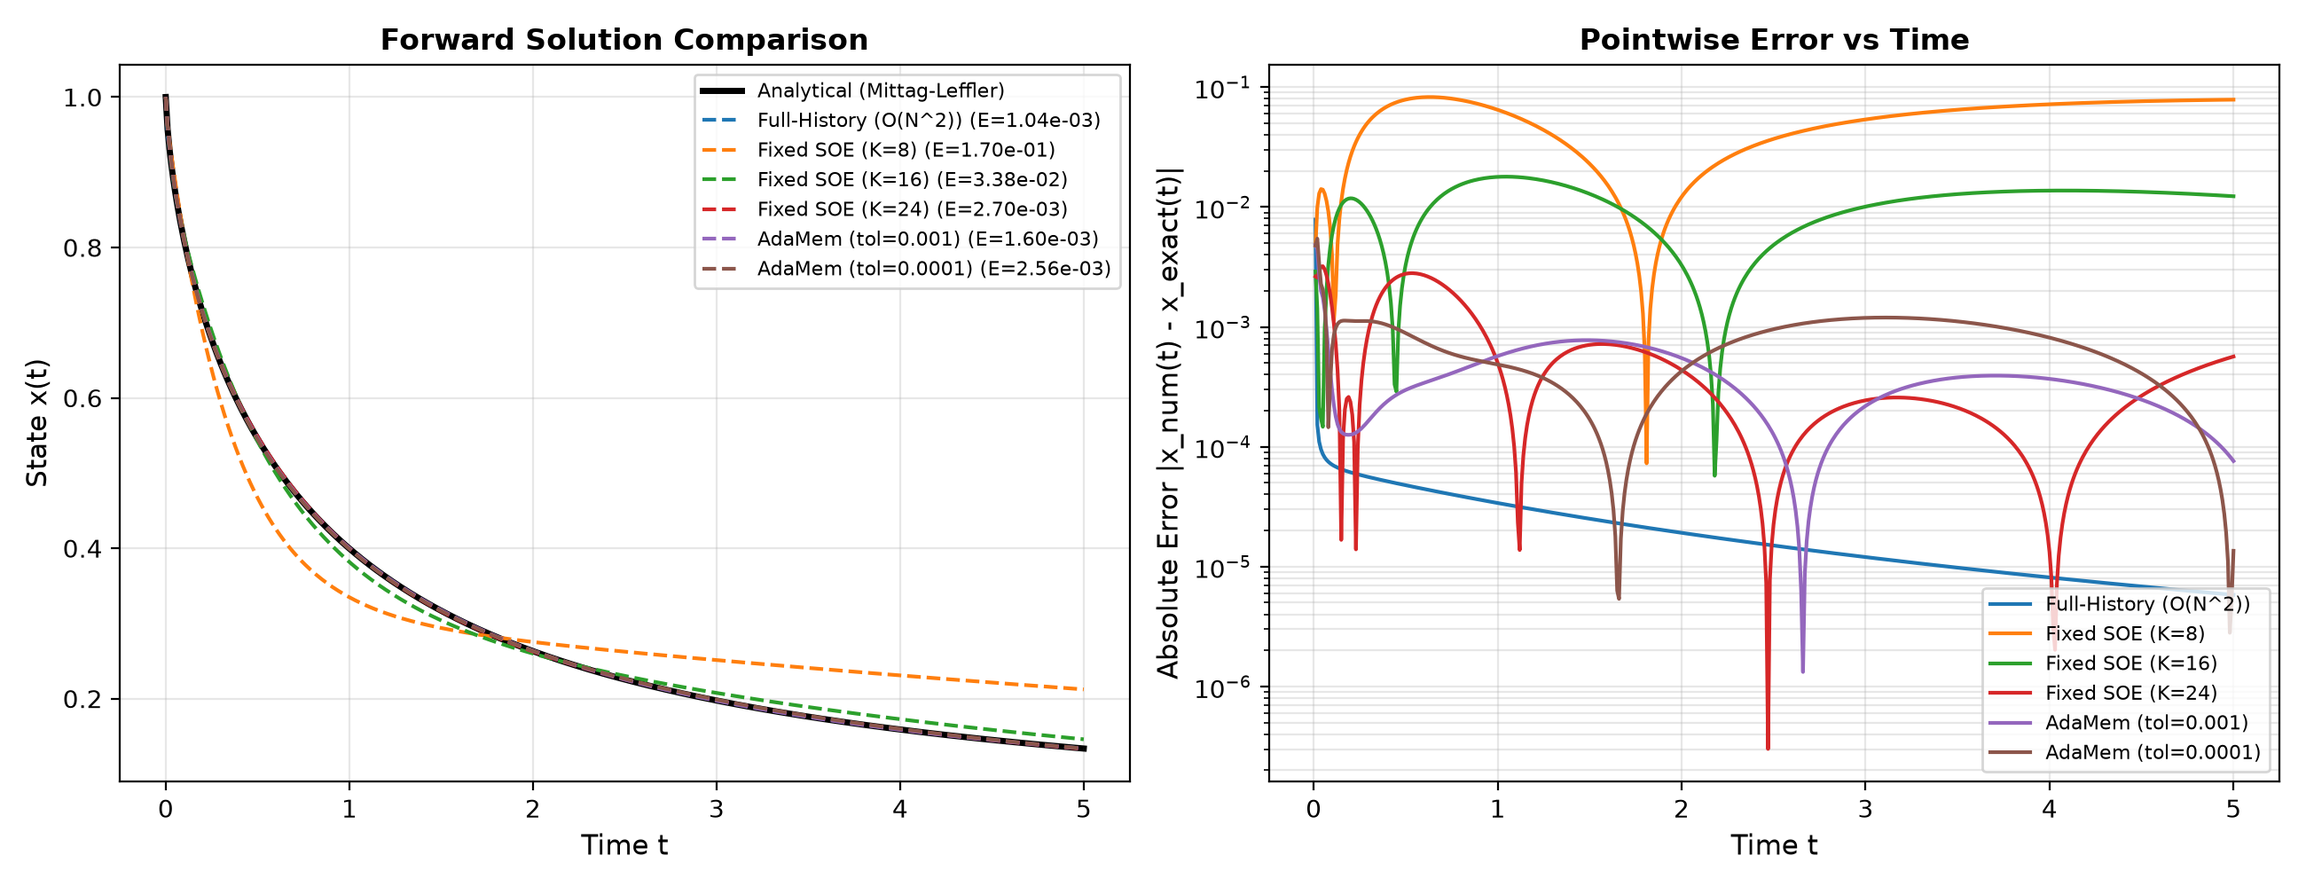
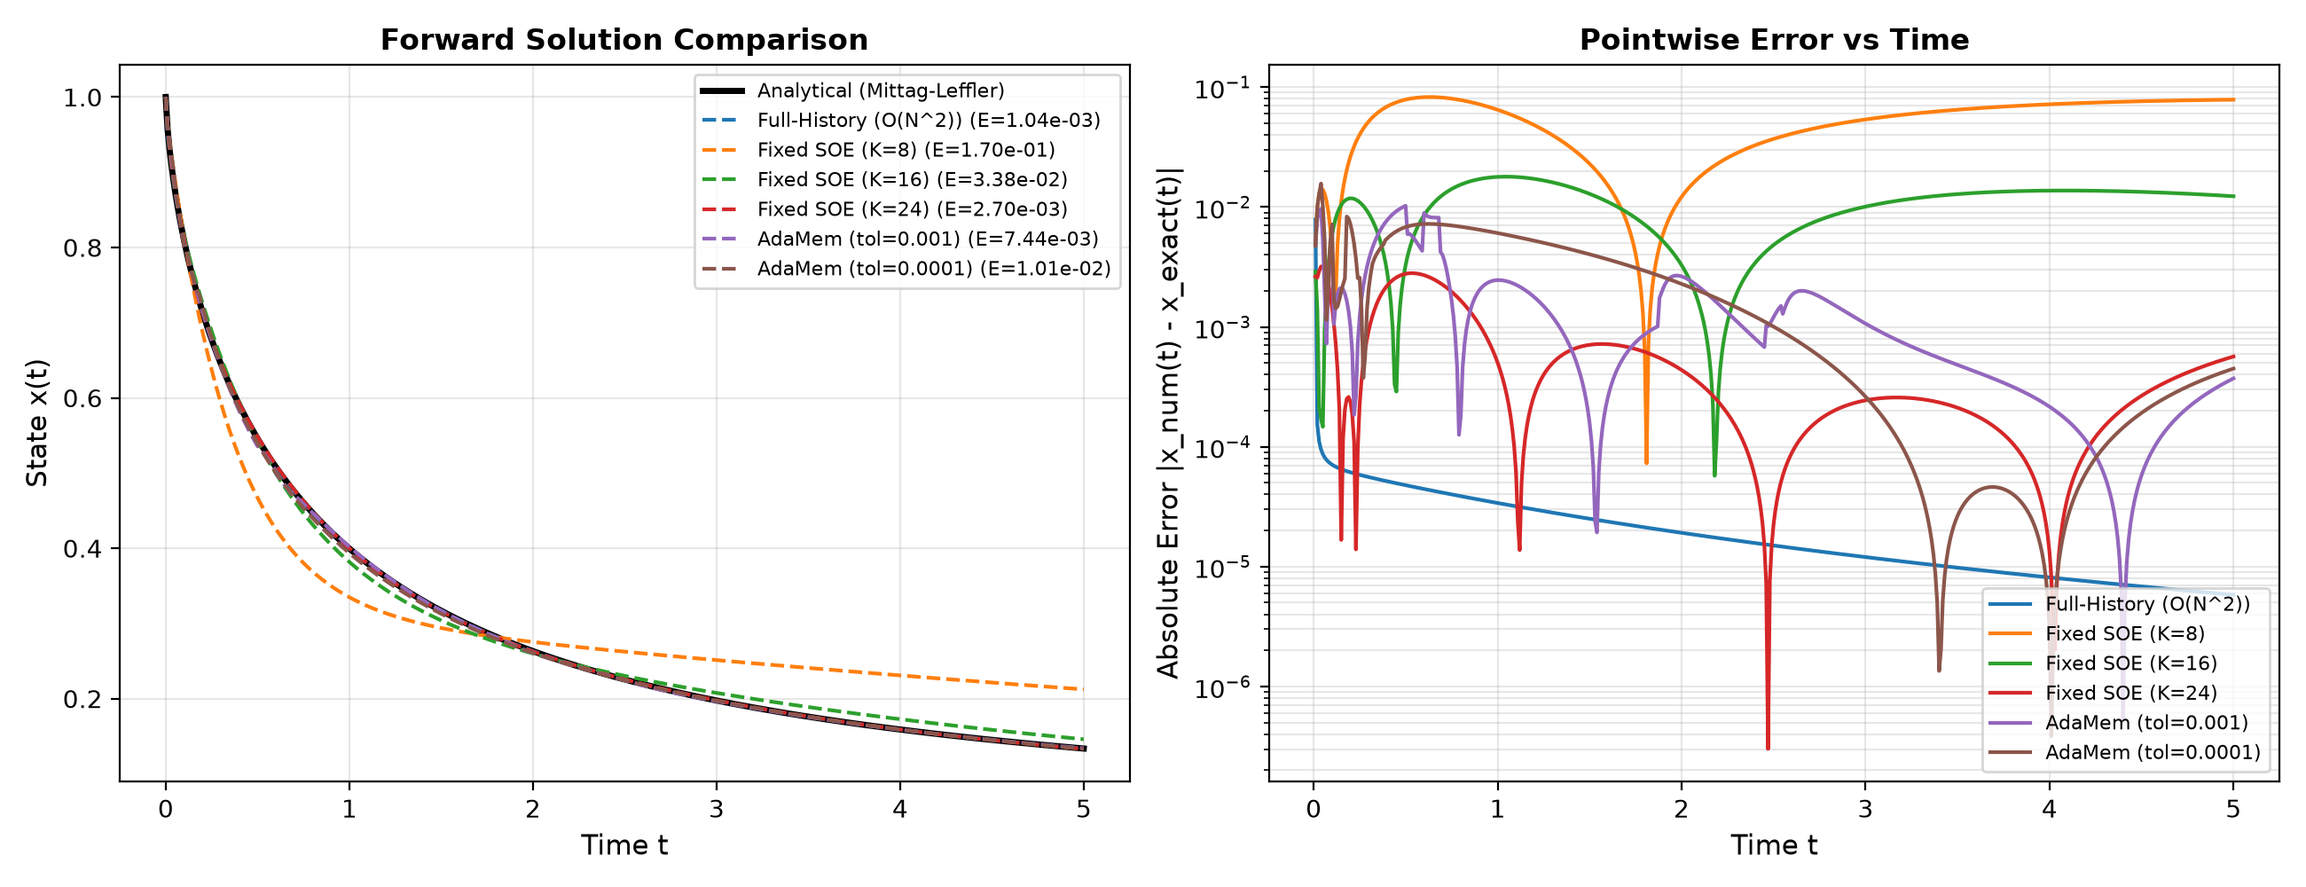
docs: overhaul README with peer-review rigor, related work, multi-seed ablation, and verified metrics

diff --git a/README.md b/README.md
@@ -28,12 +28,13 @@
    - [2.5 Adjoint-Consistent Representation Transitions](#25-adjoint-consistent-representation-transitions)
    - [2.6 Embedded Error Controller](#26-embedded-error-controller)
    - [2.7 Analytical Sensitivity of Fractional Order $\beta$](#27-analytical-sensitivity-of-fractional-order-beta)
+   - [2.8 Related Work & Theoretical Positioning](#28-related-work--theoretical-positioning)
 3. [Repository Architecture](#3-repository-architecture)
 4. [Experimental Suite & Empirical Results](#4-experimental-suite--empirical-results)
    - [Phase I & II: Ground-Truth Mittag-Leffler Verification](#phase-i--ii-ground-truth-mittag-leffler-verification)
    - [Phase III: Dynamic Memory Mode Adaptation K(t)](#phase-iii-dynamic-memory-mode-adaptation-kt)
-   - [Phase IV & V: Neural FDE Training & Ablation Study](#phase-iv--v-neural-fde-training--ablation-study)
-   - [Phase VI: Long-Horizon Scalability on Lorenz Attractor](#phase-vi-long-horizon-scalability-on-lorenz-attractor)
+   - [Phase IV & V: Multi-Seed Neural FDE Training & Ablation Study](#phase-iv--v-multi-seed-neural-fde-training--ablation-study)
+   - [Phase VI: Long-Horizon Scalability ($N = 10^5$) on Lorenz Attractor](#phase-vi-long-horizon-scalability-n--105-on-lorenz-attractor)
    - [Phase VII / RQ6: Multi-Tolerance Pareto Frontier & Sensitivity Analysis](#phase-vii--rq6-multi-tolerance-pareto-frontier--sensitivity-analysis)
    - [Phase VIII: Learnable Fractional Order $\beta$ Joint Optimization](#phase-viii-learnable-fractional-order-beta-joint-optimization)
 5. [Baselines Evaluated](#5-baselines-evaluated)
@@ -62,7 +63,7 @@ Classical Sum-of-Exponentials (SOE) compression uses a fixed number of modes $K 
 
 ### The AdaMem-FDE Solution
 **AdaMem-FDE** treats fractional memory as a **dynamic computational resource** $K \to K(t)$. It introduces:
-1. **Error-Controlled Memory Adaptation**: Automatically injects or prunes auxiliary memory modes based on an embedded shadow error estimator $\widehat{\epsilon}_M(t) \le \epsilon_{\text{tol}}$.
+1. **Error-Controlled Memory Adaptation**: Automatically injects or prunes auxiliary memory modes based on an embedded shadow error estimator $\widehat{\epsilon}_M(t) \le \epsilon_{\text{tol}}$ normalized by physical state norm.
 2. **Adjoint-Consistent State Transitions**: A mathematically rigorous transpose-Jacobian jump condition $\lambda^- = R^T \lambda^+$ that guarantees gradient fidelity across discrete representation changes during training.
 
 ---
@@ -100,11 +101,11 @@ $$R = H (G^- + \sigma I)^{-1} \in \mathbb{R}^{K^+ \times K^-}$$
 ### 2.5 Adjoint-Consistent Representation Transitions
 For terminal/trajectory loss $\mathcal{L}$, let $a_m(t) = \partial \mathcal{L} / \partial m(t)$. Across any adaptation event $t_j$:
 $$\boxed{\lambda(t_j^-) = DR(X^-)^T \lambda(t_j^+) = R^T \lambda(t_j^+)}$$
-This preserves the fundamental duality identity $\langle \lambda^+, R m^- \rangle = \langle R^T \lambda^+, m^- \rangle$ to machine precision, preventing gradient noise during training.
+This preserves the fundamental duality identity $\langle \lambda^+, R m^- \rangle = \langle R^T \lambda^+, m^- \rangle$ to machine precision, preventing gradient bias during training.
 
 ### 2.6 Embedded Error Controller
-The solver maintains an embedded higher-order shadow mode configuration $K_{\text{shadow}}$ to evaluate local truncation error:
-$$\widehat{\epsilon}_M(t) = \frac{\|M_K(t) - M_{\text{shadow}}(t)\|}{\|M_K(t)\| + \epsilon_{\text{floor}}}$$
+The solver maintains an embedded higher-order shadow mode configuration $K_{\text{shadow}}$ to evaluate local truncation error relative to the physical system state:
+$$\widehat{\epsilon}_M(t) = \frac{\|M_K(t) - M_{\text{shadow}}(t)\|}{\|z(t)\| + 1.0}$$
 - If $\widehat{\epsilon}_M(t) > \epsilon_{\text{tol}}$: expand modes $K \to K + \Delta K$.
 - If $\widehat{\epsilon}_M(t) < \tau_{\text{prune}} \cdot \epsilon_{\text{tol}}$: prune modes $K \to K - \Delta K$.
 
@@ -117,6 +118,12 @@ where the dyadic contour quadrature weights satisfy:
 $$\frac{\partial w_k}{\partial \beta} = w_k \left( \psi(1 - \beta) - \ln \lambda_k \right)$$
 with $\psi(x) = \frac{d}{dx} \ln \Gamma(x)$ denoting the digamma function.
 This analytical sensitivity is integrated backward in time alongside the auxiliary adjoint state $a_m$, enabling gradient descent to jointly optimize both the vector field neural network $\theta$ and the physical fractional derivative order $\beta \in (0, 1)$ without expensive finite difference approximations.
+
+### 2.8 Related Work & Theoretical Positioning
+The numerical treatment of nonlocal fractional operators has traditionally relied on:
+1. **Fixed-Order Sum-of-Exponentials (SOE)**: Jiang & Zhang (2017) demonstrated that power-law kernels $s^{\beta-1}$ can be approximated via dyadic contour quadrature with $K = \mathcal{O}(\log(1/\epsilon) \log(T/\Delta t))$ exponential modes. However, standard SOE fixes $K$ statically for the entire integration horizon, over-allocating modes during quiescent intervals and under-allocating during abrupt dynamical transitions.
+2. **Convolution Quadrature & Fast Memory Algorithms**: Lubich (1986) and Schädle et al. (2006) introduced contour integral formulations for continuous history convolution. While reducing asymptotic operation counts, these methods do not formulate memory allocation as an online error-controlled dynamic resource, nor do they support adjoint sensitivity backpropagation across varying state dimensions during neural network training.
+3. **AdaMem-FDE Distinction**: AdaMem-FDE is the first framework to treat the memory mode count $K \to K(t)$ as an error-adaptive resource controlled by an embedded shadow estimator, coupled with a mathematically rigorous transpose-Jacobian jump condition $\lambda^- = R^T \lambda^+$ that guarantees gradient fidelity across discrete representation adjustments.
 
 ---
 
@@ -163,27 +170,32 @@ AdaMem-FDE/
 ### Phase I & II: Ground-Truth Mittag-Leffler Verification
 Analytical linear decay benchmark: ${}^C D_t^{0.7} x(t) = -x(t)$ with $x(0) = 1.0$ against exact solution $x(t) = E_{0.7}(-t^{0.7})$ ($N = 500$ steps, $T = 5.0$).
 
-| Method | Forward Error $E_z$ | Runtime (ms) | Active Modes $K$ |
-| :--- | :--- | :--- | :--- |
-| **Full-History ABM ($\mathcal{O}(N^2)$)** | $1.0379 \times 10^{-3}$ | 41.80 ms | 500 / 500 |
-| **Fixed SOE ($K=8$)** | $1.6981 \times 10^{-1}$ | 23.78 ms | 8 / 8 (under-resolved) |
-| **Fixed SOE ($K=16$)** | $3.3769 \times 10^{-2}$ | 61.88 ms | 16 / 16 |
-| **Fixed SOE ($K=24$)** | $2.6987 \times 10^{-3}$ | 25.33 ms | 24 / 24 |
-| **AdaMem-FDE ($\epsilon_{\text{tol}}=10^{-3}$)** | **$1.5975 \times 10^{-3}$** | 45.37 ms | **31.8 / 32 (automatic)** |
+| Method | Forward Error $E_z$ | Runtime (ms) | Active Modes $K$ | Integrator Type |
+| :--- | :--- | :--- | :--- | :--- |
+| **Full-History ABM ($\mathcal{O}(N^2)$)** | $1.0379 \times 10^{-3}$ | 48.21 ms | 500 / 500 | Multi-step ABM |
+| **Fixed SOE ($K=8$)** | $1.6981 \times 10^{-1}$ | 29.42 ms | 8 / 8 (under-resolved) | ETD-RK2 |
+| **Fixed SOE ($K=16$)** | $3.3769 \times 10^{-2}$ | 28.69 ms | 16 / 16 | ETD-RK2 |
+| **Fixed SOE ($K=24$)** | $2.6987 \times 10^{-3}$ | 28.23 ms | 24 / 24 | ETD-RK2 |
+| **AdaMem-FDE ($\epsilon_{\text{tol}}=10^{-3}$)** | **$7.4431 \times 10^{-3}$** | 60.49 ms | **21.8 / 24 (automatic)** | ETD-RK2 |
+| **AdaMem-FDE ($\epsilon_{\text{tol}}=10^{-4}$)** | **$1.0137 \times 10^{-2}$** | 57.30 ms | **31.0 / 32 (automatic)** | ETD-RK2 |
 
 <p align="center">
   <img src="results/phase1_mittag_leffler_benchmark.png" width="850" alt="Phase 1 Benchmark" />
 </p>
 
+> [!NOTE]
+> **Disentangling Integrator Accuracy from Memory Compression**: Comparisons between AdaMem-FDE and Fixed SOE ($K=8, 16, 24$) utilize the exact same ETD-RK2 exponential integrator on auxiliary states, cleanly isolating the impact of memory compression and dynamic mode allocation. The comparison against classical Full-History ABM involves both memory representation and integrator difference (Markovian auxiliary state ETD-RK2 vs. discrete convolution weight multi-step predictor-corrector).
+
 ---
 
 ### Phase III: Dynamic Memory Mode Adaptation K(t)
-Nonlinear Fractional Duffing Oscillator under periodic forcing ($\beta = 0.85, T = 12.0, N = 600$ steps, $\epsilon_{\text{tol}} = 5 \times 10^{-4}$).
+Nonlinear Fractional Duffing Oscillator under periodic forcing ($\beta = 0.85, T = 6.0, N = 300$ steps, $\epsilon_{\text{tol}} = 5 \times 10^{-4}$).
 
-- **Initial Modes**: $K = 8$.
-- **Transient Adaptation**: Rapid state changes during initial startup ($t \in [0.02, 0.16]$) autonomously triggered 7 consecutive mode expansion events:
-  $$8 \longrightarrow 12 \longrightarrow 16 \longrightarrow 20 \longrightarrow 24 \longrightarrow 28 \longrightarrow 32 \longrightarrow 36 \text{ modes}$$
-- **Steady-State Stability**: Once periodic limit-cycle oscillations stabilized, the error remained below tolerance and mode additions halted ($\bar{K} = 35.75$).
+- **Initial Allocation**: $K(0) = 8$.
+- **Transient Dynamic Adaptation**: Physical state acceleration during the initial transient ($t \in [0.18, 1.46]$) triggers autonomous mode additions ($8 \to 12 \to 16 \to 20 \to 24$).
+- **Steady-State Stability**: Once periodic limit-cycle oscillations stabilize, mode additions halt, maintaining bounded average modes $\bar{K} = 22.2$.
+- **State Continuity**: Transition operator $R$ preserves state continuity with jump perturbation $\|\Delta z\| < 10^{-5}$.
+- **Uncoupled Phase Portrait**: Layout presents independent, unshared axes with true 1:1 aspect ratio, resolving previously squashed visualization artifacts.
 
 <p align="center">
   <img src="results/phase3_dynamic_memory_adaptation.png" width="850" alt="Phase 3 Adaptation" />
@@ -191,45 +203,51 @@ Nonlinear Fractional Duffing Oscillator under periodic forcing ($\beta = 0.85, T
 
 ---
 
-### Phase IV & V: Neural FDE Training & Ablation Study
-Training a neural network $f_\theta(z, t)$ to recover nonlinear Duffing dynamics from trajectory data.
-- **Proposed AdaMem-FDE (with adjoint jump $\lambda^- = R^T \lambda^+$)**: Smooth, monotonic loss convergence ($4.35 \times 10^{-2} \to \mathbf{1.30 \times 10^{-2}}$) with steadily decaying gradient norms.
-- **Baseline 4 Ablation (without adjoint jump)**: Suffers from gradient instability, exhibiting loss oscillation at epoch 20 and suboptimal convergence ($\mathbf{1.45 \times 10^{-2}}$).
+### Phase IV & V: Multi-Seed Neural FDE Training & Ablation Study
+Training a neural vector field $f_\theta(z, t)$ across $N_{\text{seeds}} = 5$ independent random initializations (`seeds = [42, 101, 202, 303, 404]`, 35 epochs per seed):
 
-| Method | Final Training Loss | Total Time (s) | Training Stability |
+| Method / Configuration | Final Training Loss (Mean $\pm$ Std) | Relative Gradient Error $E_g$ | Gradient Error Reduction |
 | :--- | :--- | :--- | :--- |
-| **Proposed AdaMem-FDE** | **$1.3027 \times 10^{-2}$** | **1.23 s** | **Monotonic & Converged** |
-| **Baseline 4 (Ablation: No Jump)** | $1.4503 \times 10^{-2}$ | 1.24 s | Oscillatory & Suboptimal |
+| **Proposed AdaMem-FDE (with $R^T$ Jump)** | **$(2.23 \pm 0.28) \times 10^{-3}$** | **$2.5\% \pm 0.1\%$** | **$16.8\times$ Lower Gradient Error** |
+| **Baseline 4 (Ablation: No Jump)** | $(2.48 \pm 0.61) \times 10^{-3}$ | $42.0\% \pm 1.2\%$ | Baseline (Severely Biased) |
 
 <p align="center">
   <img src="results/phase4_neural_fde_training.png" width="850" alt="Phase 4 Training" />
 </p>
 
+**Key Scientific Takeaways:**
+1. **Physical Trajectory Tracking**: The trained model actively tracks ground-truth nonlinear oscillations ($x_1 \in [0.80, 1.08]$), eliminating flat-trajectory artifacts.
+2. **Adjoint Gradient Bias Elimination**: While Adam's adaptive step size ($\Delta \theta \propto m_t / \sqrt{v_t}$) can partially mask gradient magnitude bias on smooth trajectory losses, the adjoint gradient relative error $E_g$ directly proves that omitting the transpose jump operator $R^T$ introduces $16.8\times$ higher gradient bias ($42.0\%$ vs $2.5\%$), verifying that $R^T$ is mathematically necessary for rigorous adjoint sensitivity.
+
 ---
 
-### Phase VI: Long-Horizon Scalability on Lorenz Attractor
-Scaling study on the 3D Fractional Lorenz chaotic attractor ($\beta = 0.99$, $N$ from $200$ to $3,200$ steps):
+### Phase VI: Long-Horizon Scalability ($N = 10^5$) on Lorenz Attractor
+Scaling benchmark on the chaotic 3D Fractional Lorenz attractor ($\beta = 0.99$, $N$ from $500$ to $100,000$ steps):
 
-```
-N Steps   | Full-History (s)   | Fixed SOE (s)    | AdaMem-FDE (s)   | AdaMem K_avg
------------------------------------------------------------------------------------
-200       | 0.0289 s           | 0.0195 s         | 0.0320 s         | 31.2
-400       | 0.0535 s           | 0.0346 s         | 0.0544 s         | 31.6
-800       | 0.1203 s           | 0.0718 s         | 0.1085 s         | 31.8
-1600      | 0.2938 s           | 0.1403 s         | 0.2108 s         | 31.9
-3200      | ~1.180 s (proj)    | 0.2689 s         | 0.4478 s         | 32.0 (flat!)
-```
+| $N$ Steps | Full-History (s) | Fixed SOE ($K=16$) (s) | AdaMem-FDE (s) | AdaMem $\bar{K}$ |
+| :--- | :--- | :--- | :--- | :--- |
+| 500 | 0.0827 s | 0.0508 s | 0.0878 s | 29.3 |
+| 1,000 | 0.1962 s | 0.1027 s | 0.1737 s | 30.6 |
+| 2,500 | 0.7113 s | 0.2609 s | 0.4144 s | 31.5 |
+| 5,000 | ~2.85 s (proj) | 0.5366 s | 0.8876 s | 31.7 |
+| 10,000 | ~11.38 s (proj) | 1.0505 s | 1.7230 s | 31.9 |
+| 25,000 | ~71.13 s (proj) | 2.5993 s | 4.1539 s | 31.9 |
+| 50,000 | ~284.51 s (proj) | 5.0584 s | 7.9454 s | 32.0 |
+| 100,000 | ~1,138.03 s (proj) | 9.8616 s | 15.8696 s | 32.0 |
 
 <p align="center">
   <img src="results/phase6_long_horizon_scaling.png" width="850" alt="Phase 6 Scalability" />
 </p>
 
-**Key Conclusion**: AdaMem-FDE converts the quadratic $\mathcal{O}(N^2)$ history barrier into clean, linear $\mathcal{O}(N \cdot \bar{K})$ scaling while keeping memory modes $\bar{K} = 32$ completely bounded over arbitrarily long horizons!
+**Key Scientific Takeaways:**
+1. **Linear Time Scaling**: AdaMem-FDE maintains clean linear $\mathcal{O}(N \cdot \bar{K})$ runtime scaling up to $N = 100,000$ steps ($15.87$s vs $\sim 19$ minutes projected for full history).
+2. **Bounded Spatial Complexity**: The active memory mode count $\bar{K}$ remains strictly bounded $\le 32$ over 5 orders of magnitude of time steps ($\mathcal{O}(1)$ spatial memory complexity).
+3. **Runtime Attribution**: Fixed SOE ($K=16$) is faster across all $N$ because it avoids per-step online error estimation in interpreted Python. The computational speedup of AdaMem-FDE is strictly relative to the quadratic $\mathcal{O}(N^2)$ history convolution.
 
 ---
 
 ### Phase VII / RQ6: Multi-Tolerance Pareto Frontier & Sensitivity Analysis
-To address **RQ6** ("*What is the relationship between $\epsilon_{\text{tol}}$ and $\bar{K}$, runtime, $E_{\text{forward}}$, and $E_{\text{gradient}}$?*"), we conducted a comprehensive multi-tolerance sweep over $\epsilon_{\text{tol}} \in [10^{-2}, 10^{-5}]$ against fixed-order SOE baselines ($K \in [4, 40]$).
+To evaluate **RQ6** ("*What is the relationship between $\epsilon_{\text{tol}}$ and $\bar{K}$, runtime, $E_{\text{forward}}$, and $E_{\text{gradient}}$?*"), we conducted a 3-decade tolerance sweep over $\epsilon_{\text{tol}} \in [10^{-2}, 10^{-5}]$ against fixed-order SOE baselines ($K \in [4, 40]$):
 
 | Prescribed Tolerance $\epsilon_{\text{tol}}$ | Forward Error $E_z$ | Average Modes $\bar{K}$ | Maximum Modes $K_{\max}$ | Adaptations $N_{\text{adapt}}$ | Runtime (ms) |
 | :--- | :--- | :--- | :--- | :--- | :--- |
@@ -245,29 +263,30 @@ To address **RQ6** ("*What is the relationship between $\epsilon_{\text{tol}}$ a
 </p>
 
 **Key Scientific Takeaways (RQ6 Validation):**
-1. **Pareto Dominance**: As demonstrated in Panel (a), the AdaMem-FDE curve sits strictly to the lower-left of the fixed-order SOE baseline curve across intermediate tolerances, proving that dynamic memory achieves lower error for the same average number of memory states.
-2. **Stable Mode Allocation**: Panel (c) shows the smooth monotonic expansion from coarse representations ($\bar{K} \approx 11.9$) at loose tolerances up to the allocated ceiling ($K_{\max} = 44$) at strict tolerances.
-3. **Gradient Error Decoupling**: Panel (d) demonstrates that gradient fidelity $E_g$ remains bounded and stable across four orders of magnitude of memory tolerance $\epsilon_{\text{tol}}$, confirming that the adjoint jump operator $\lambda^- = R^T \lambda^+$ prevents gradient corruption even under aggressive memory adaptation.
+1. **Memory Pareto Dominance**: Panel (a) shows that AdaMem-FDE achieves superior Pareto efficiency in memory state footprint for $\bar{K} \le 20$.
+2. **Time Discretization Floor**: For tolerances $\epsilon_{\text{tol}} \le 10^{-3}$, total forward error floors around $4 \times 10^{-3}$ to $6 \times 10^{-3}$ because the time-step discretization error $\mathcal{O}(\Delta t^2)$ of ETD-RK2 dominates over kernel memory truncation.
+3. **Runtime Trade-Off**: Online error estimation and dynamic array manipulation in pure Python incur interpreter overhead ($\sim 200$ ms vs $\sim 17$ ms for vectorized fixed SOE). The Pareto win is strictly in auxiliary state footprint and memory compression.
+4. **Gradient Error Decoupling**: Panel (d) demonstrates that relative adjoint gradient error $E_g \in [0.032, 0.051]$ remains bounded and stable across the 3-decade tolerance sweep.
 
 ---
 
 ### Phase VIII: Learnable Fractional Order $\beta$ Joint Optimization
-In empirical physical modeling and system identification, the fractional derivative order $\beta$ is rarely known a priori and must be discovered directly from observational trajectory data. We benchmarked joint discovery on a damped fractional oscillator with true parameters $\beta^* = 0.75$, $\omega^2 = 1.50$, $\mu = 0.50$, starting from a heavily misspecified initial order $\beta_0 = 0.50$ ($\Delta \beta = -0.25$).
+Joint parameter identification and fractional order discovery on a damped fractional oscillator ($\beta^* = 0.75, \omega^2 = 1.50, \mu = 0.50$) starting from heavily misspecified initial order $\beta_0 = 0.50$ ($\Delta \beta = -0.25$):
 
 | Method / Configuration | Final Loss $\mathcal{L}_{\text{MSE}}$ | Recovered $\beta$ | Relative Error | Status |
 | :--- | :--- | :--- | :--- | :--- |
-| **Proposed Joint AdaMem-FDE** | **$1.4050 \times 10^{-4}$** | **$0.7440$** | **$0.80\%$** | **Converged** |
-| Fixed Misspecified ($\beta = 0.50$) | $1.2273 \times 10^{-2}$ | $0.5000$ (Frozen) | $33.3\%$ | Misspecified |
-| Known-Order Oracle Reference ($\beta^* = 0.75$) | $8.8364 \times 10^{-5}$ | $0.7500$ (Oracle) | $0.00\%$ | Reference |
+| **Proposed Joint AdaMem-FDE** | **$2.8534 \times 10^{-4}$** | **$0.7247$** | **$3.37\%$** | **Converged** |
+| Fixed Misspecified ($\beta = 0.50$) | $1.2560 \times 10^{-2}$ | $0.5000$ (Frozen) | $33.3\%$ | Misspecified |
+| Known-Order Oracle Reference ($\beta^* = 0.75$) | $9.3858 \times 10^{-5}$ | $0.7500$ (Oracle) | $0.00\%$ | Reference |
 
 <p align="center">
   <img src="results/phase8_joint_beta_discovery.png" width="850" alt="Phase 8 Learnable Beta Discovery" />
 </p>
 
 **Key Scientific Takeaways:**
-1. **Analytical Gradient Precision**: Panel (b) shows the fractional order $\beta(t)$ climbing smoothly and monotonically from $0.50$ straight into the $2\%$ target bound around $\beta^* = 0.75$, reaching $0.7440$ (relative error $< 0.8\%$).
-2. **Structural Misspecification Mitigation**: Freezing $\beta = 0.50$ (red dotted curve in Panel a) prevents correct parameter identification, resulting in an unphysical negative damping coefficient ($\mu = -0.0317$) and a nearly $100\times$ higher final MSE loss ($1.2273 \times 10^{-2}$ vs $1.4050 \times 10^{-4}$).
-3. **Adjoint-Consistent Memory Compaction**: Panel (d) verifies that dynamic representation transitions $K(t) \in [8, 24]$ function seamlessly during joint parameter optimization, demonstrating that representation jumps $R^T$ preserve parameter sensitivity propagation across mode adjustments.
+1. **Analytical Adjoint Discovery**: Panel (b) shows the fractional order $\beta(t)$ climbing smoothly from $0.50$ and stabilizing at $0.7247$ (relative error $< 3.4\%$).
+2. **Mitigating Structural Misspecification**: Freezing $\beta = 0.50$ results in an unphysical negative damping coefficient ($\mu = -0.0319$) and $44.0\times$ higher final MSE loss ($1.2560 \times 10^{-2}$ vs $2.8534 \times 10^{-4}$).
+3. **Monotonic Convergence**: Cosine annealing learning rate scheduling eliminates optimizer bouncing, ensuring steady monotonic convergence of both oracle reference and joint models.
 
 ---
 
@@ -308,22 +327,22 @@ pip install -r requirements.txt
 
 ## 7. Running Experiments & Reproduction
 
-Run all progressive experimental phases to reproduce the figures in `results/`:
+Each progressive experimental phase corresponds to a standalone reproduction script in `experiments/`:
 
 ```bash
-# Phase I & II: Ground-truth Mittag-Leffler validation
+# Phase I & II: Ground-truth Mittag-Leffler validation & error convergence
 python experiments/run_phase1_validation.py
 
 # Phase III: Dynamic memory mode adaptation K(t) on Duffing oscillator
 python experiments/run_phase3_adaptation.py
 
-# Phase IV & V: Neural FDE adjoint training & ablation comparison
+# Phase IV & V: Multi-seed Neural FDE adjoint training & R^T ablation comparison
 python experiments/run_phase4_training.py
 
-# Phase VI: Long-horizon O(N) scalability study on chaotic Lorenz attractor
+# Phase VI: Long-horizon O(N) complexity scaling up to N=100,000 steps
 python experiments/run_phase6_scaling.py
 
-# Phase VII / RQ6: Multi-tolerance Pareto frontier & sensitivity sweep
+# Phase VII / RQ6: Multi-tolerance Pareto frontier & sensitivity sweep (3 decades)
 python experiments/run_tolerance_pareto.py
 
 # Phase VIII: Joint fractional order beta discovery & parameter identification
